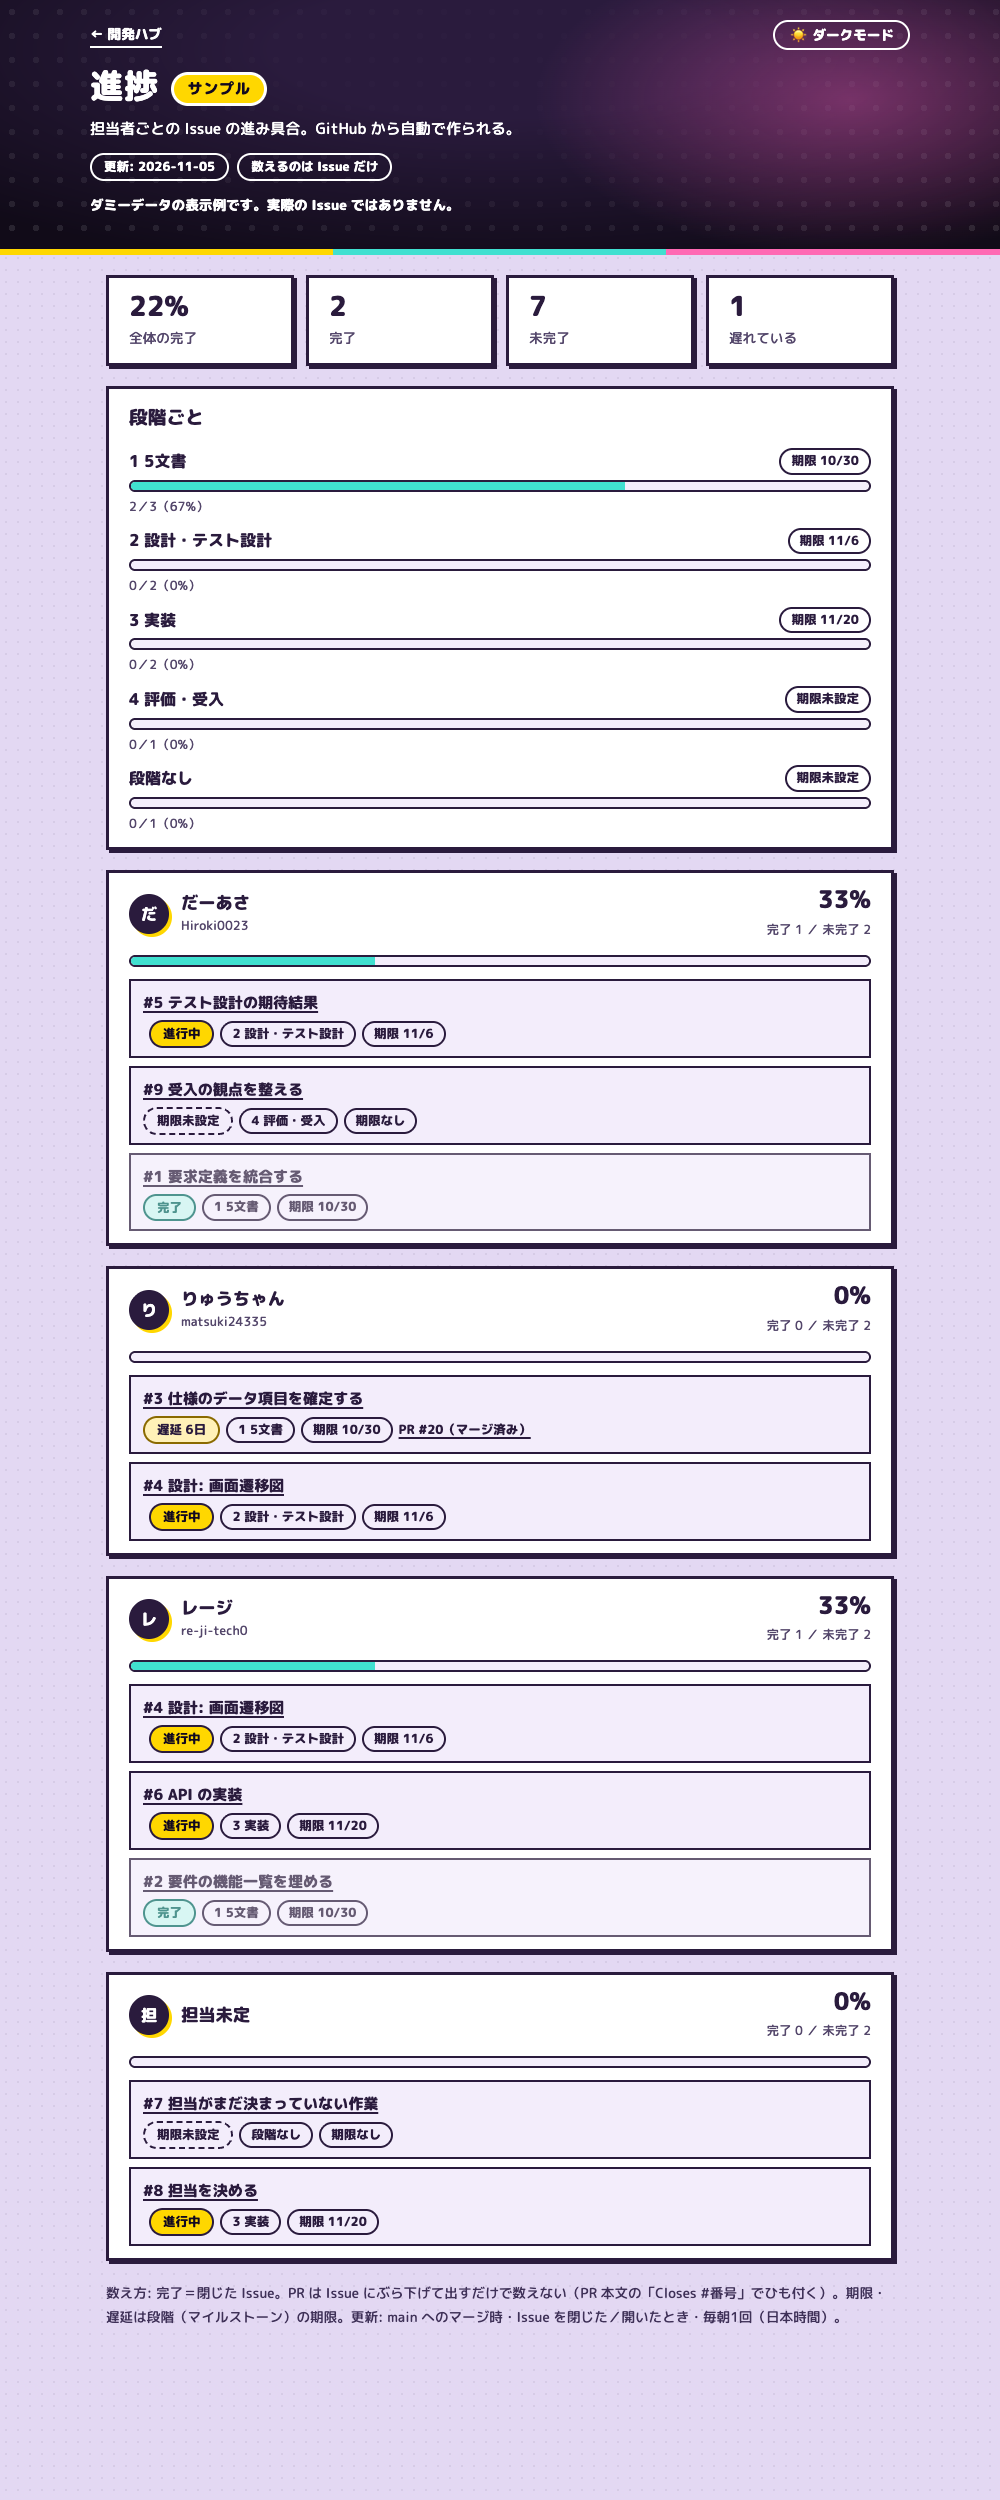
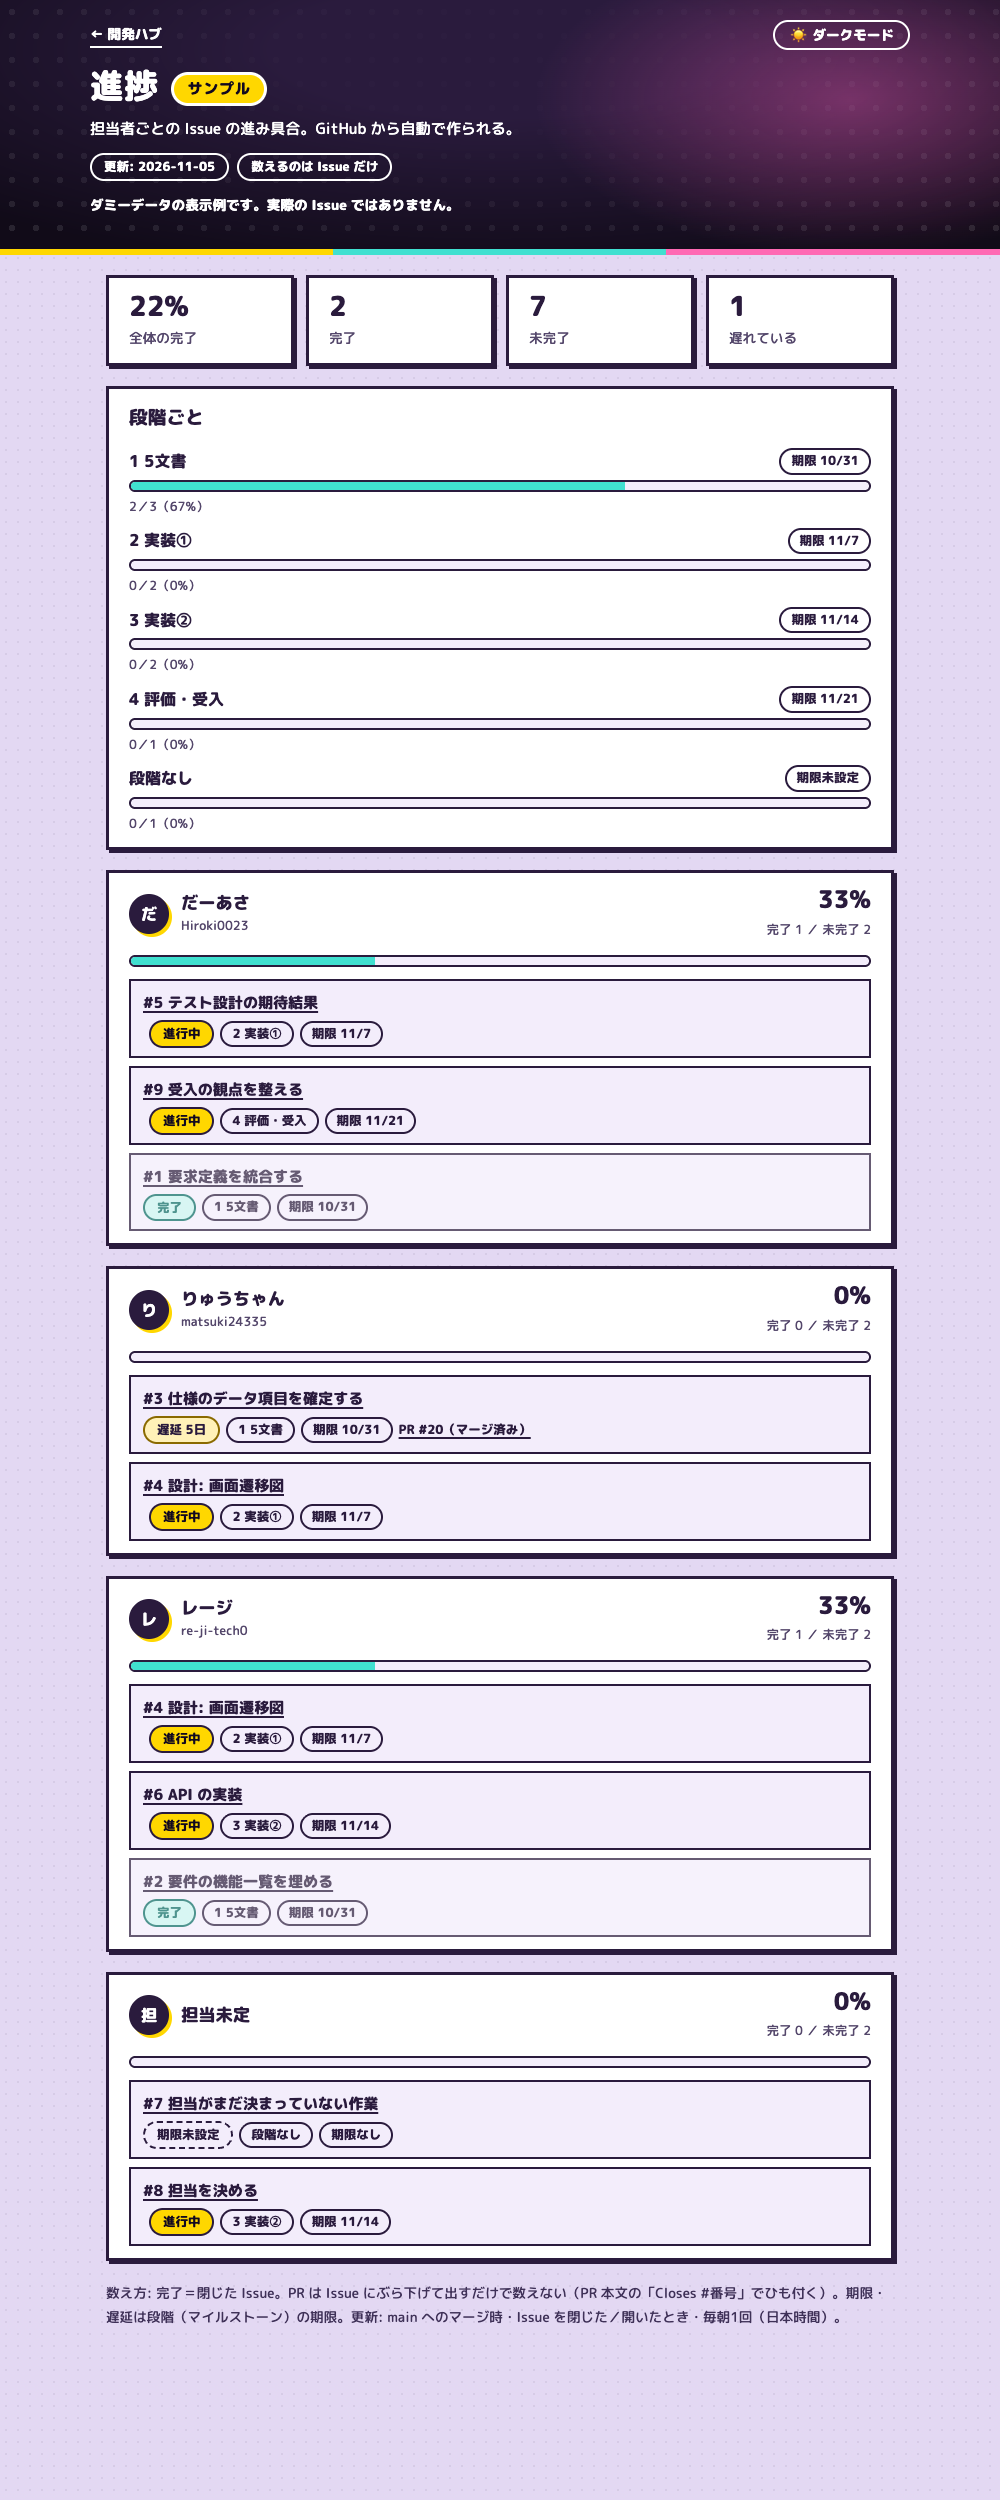
chore: サンプルの段階名・期限を本物のマイルストーンに合わせる (M80-22)

diff --git a/scripts/test_build_progress.py b/scripts/test_build_progress.py
@@ -23,10 +23,10 @@ class T(unittest.TestCase):
 
     def test_late_uses_milestone_due_jst(self):
         rows = {r["number"]: r for p in model()["people"] for r in p["rows"]}
-        self.assertEqual(rows[3]["late"], 6)  # 期限 10/30(JST)、今日 11/5 → 6日
+        self.assertEqual(rows[3]["late"], 5)  # 期限 10/31(JST)、今日 11/5 → 5日
         self.assertEqual(rows[5]["late"], 0)  # 期限 11/7
         self.assertEqual(rows[1]["late"], 0)  # 完了は遅延にしない
-        self.assertEqual(rows[9]["late"], 0)  # 期限なし
+        self.assertEqual(rows[9]["late"], 0)  # 期限 11/21
 
     def test_names_and_fallback(self):
         names = [p["name"] for p in model()["people"]]
